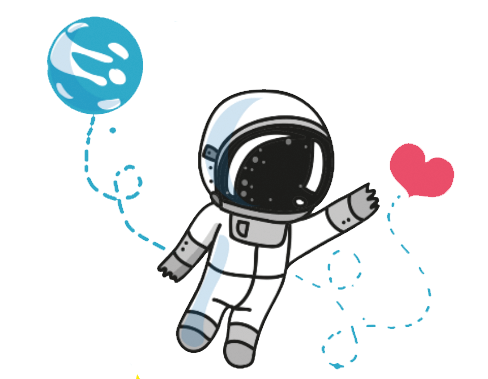
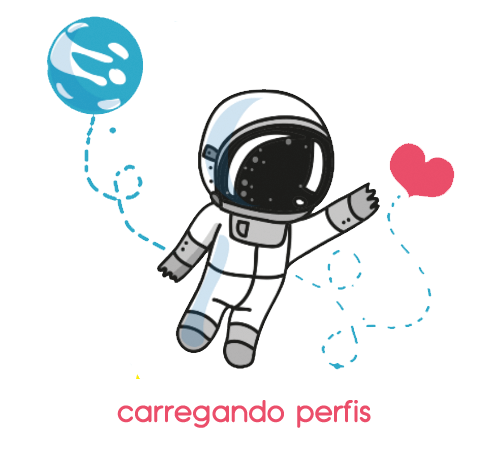
funcionamento básico e design completos

diff --git a/semana9/astromatch/src/components/ChooseScreen/ChooseScreen.js b/semana9/astromatch/src/components/ChooseScreen/ChooseScreen.js
@@ -4,10 +4,12 @@ import Fab from '@material-ui/core/Fab'
 import FavoriteIcon from '@material-ui/icons/Favorite'
 import NotInterestedIcon from '@material-ui/icons/NotInterested';
 import {createMuiTheme, MuiThemeProvider} from '@material-ui/core'
+import logo from '../../images/astromatch.png'
 import {
   Main,
   ProfileDetails,
-  Choice
+  Choice,
+  Logo
 } from './style'
 
 const myTheme = createMuiTheme({
@@ -23,10 +25,42 @@ const myTheme = createMuiTheme({
 
 export default function ChooseScreen() {
   const [profile, setProfile] = useState('')
-
+  const [profileId, setProfileId] = useState('')
+  const [profileChoice, setChoice] = useState(false)
+  
   useEffect(() => {
     getProfileToChoose()
   }, [])
+
+  function userChoiceTrue(id) {
+    setChoice(true)
+    setProfileId(id)
+    choosePerson()
+  }
+  
+  function userChoiceFalse(id) {
+    setChoice(false)
+    setProfileId(id)
+    choosePerson()
+  }
+
+  function choosePerson() {
+    const aluno = 'paulo-machado-mello'
+    const headers = {
+      ContentType: 'application/json'
+    }
+    const body = {
+      id: profileId,
+      choice: profileChoice
+    }
+    axios.post('https://us-central1-missao-newton.cloudfunctions.net/astroMatch/' + aluno + '/choose-person', body, {headers})
+      .then((response) => {
+        getProfileToChoose()
+      })
+      .catch((error) => {
+        window.alert(error)
+      })
+  }
 
   function getProfileToChoose() {
     const aluno = 'paulo-machado-mello'
@@ -34,31 +68,36 @@ export default function ChooseScreen() {
       .then((response) => {
         setProfile(response.data.profile)
       })
+      .catch((error) => {
+        window.alert(error)
+      })
   }
 
   return(
     <MuiThemeProvider theme={myTheme}>
       <Main>
+        {profile ?
         <ProfileDetails>
           <img alt='person' src={profile.photo}/>
           <div>
-          <p>{profile.name}</p> 
-          <p>{profile.age}</p>
+            <p>{profile.name}</p> 
+            <p>{profile.age}</p>
           </div>
           <p>{profile.bio}</p>
-          <Choice>
-            <p>
-              <Fab>
-                <NotInterestedIcon fontSize='large' color='primary' />
-              </Fab>
-            </p>
-            <p>
-              <Fab>
-                <FavoriteIcon fontSize='large' color='secondary'/>
-              </Fab>
-            </p>
-          </Choice>
-        </ProfileDetails>
+        </ProfileDetails> :
+        <Logo alt='logo' src={logo} />}
+        <Choice>
+          <p>
+            <Fab onClick={() => userChoiceFalse(profile.id)}>
+              <NotInterestedIcon fontSize='large' color='primary' />
+            </Fab>
+          </p>
+          <p>
+            <Fab onClick={() => userChoiceTrue(profile.id)}>
+              <FavoriteIcon fontSize='large' color='secondary'/>
+            </Fab>
+          </p>
+        </Choice>
       </Main>
     </MuiThemeProvider>
   )

diff --git a/semana9/astromatch/src/components/ChooseScreen/style.js b/semana9/astromatch/src/components/ChooseScreen/style.js
@@ -1,54 +1,64 @@
 import styled from 'styled-components'
 
 export const Main = styled.main`
-  display: flex;
-  justify-content: center;
-  align-content: center;
-`
-export const ProfileDetails = styled.div`
-  position: absolute;
-  top: 120px;
-  color: white;
-  display: flex;
-  flex-direction: column;
-  justify-content: center;
+  display: grid;
+  grid-template-columns: auto 380px auto;
+  grid-template-rows: 450px auto;
+  `
+  
+  export const ProfileDetails = styled.div`
+  display: grid;
+  grid-template-rows: 150px 150px 150px;
+  grid-row: 1/2;
+  grid-column: 2/3;
+  color: black;
   img {
+    box-shadow: 0px 0px 8px 1px rgba(125,125,125,0.47);
+    grid-column: 1/2;
+    grid-row: 1/3;
     width: 380px;
     height: 450px;
     object-fit: cover;
     border-radius: 5%;
   }
   div {
-    position: absolute;
-    top: 290px;
+    color: white;
+    grid-column: 1/2;
+    grid-row: 3/4;
     display: flex;
-    align-content: center;
     p:first-child {
-      margin-left: 15px;
+      margin-left: 16px;
       margin-right: 8px;
       font-weight: 700;
     }
     >p {
-      font-size: 30px
+      font-size: 30px;
     }
   }
   >p {
+    margin-left: 16px;
+    color: white;
+    grid-column: 1/2;
+    grid-row: 3/4;
+    align-self: end;
     width: 320px;
-    position: absolute;
-    top: 360px;
-    left: 15px;
   }
 `
 export const Choice = styled.div`
-  span {
-    color: red;
-    font-size: 25px;
-    font-weight: 700;
-  }
-  p {
-   margin-left: 100px;
-  }
-  margin-top: 150px;
   display: flex;
+  grid-row: 3/4;
+  grid-column: 2/3;
+  justify-self: center;
+  p {
+    margin-left: 20px;
+    margin-right: 20px;
+  }
+`
+
+export const Logo = styled.img`
+  justify-self: center;
   align-self: center;
+  grid-column: 2/3;
+  grid-row: 1/3;
+  width: 250px;
 `

diff --git a/semana9/astromatch/src/App.js b/semana9/astromatch/src/App.js
@@ -5,7 +5,7 @@ import HomeIcon from '@material-ui/icons/Home';
 import WhatshotIcon from '@material-ui/icons/Whatshot';
 import ChooseScreen from './components/ChooseScreen/ChooseScreen'
 import {createMuiTheme, MuiThemeProvider} from '@material-ui/core'
-import logo from './images/astromatch.png'
+import MatchScreen from './components/MatchScreen/MatchScreen'
 import {
   Main,
   Logo,
@@ -24,24 +24,32 @@ const myTheme = createMuiTheme({
 })
 
 function App() {
+  const [matchesDiv, setMatchesDiv] = useState(true);
+
+  function onClickMatches() {
+    setMatchesDiv(!matchesDiv)
+  }
+
   return (
     <MuiThemeProvider theme={myTheme}>
       <Main>
         <Logo>
-          <img alt='logo' src={logo}/>
           <span>astromatch</span>
         </Logo>
         <NavBar>
-          <Link color='primary' className={'link'}>
-            <HomeIcon className={'icon'} />
+          {matchesDiv ?
+          <Link onClick={onClickMatches} color='primary' className={'link'}>
+            <WhatshotIcon fontSize={'small'} className={'icon'} />
             Matches
-          </Link>
-          <Link color='primary' className={'link'}>
-            <WhatshotIcon className={'icon'} />
-            Matches
-          </Link>
+          </Link> :
+          <Link onClick={onClickMatches} color='primary' className={'link'}>
+            <HomeIcon fontSize={'small'} className={'icon'} />
+            Cardápio
+          </Link>}
         </NavBar>
-        <ChooseScreen />
+        {matchesDiv ?
+        <ChooseScreen /> :
+        <MatchScreen />}
       </Main>
     </MuiThemeProvider>
   );

diff --git a/semana9/astromatch/src/components/MatchScreen/MatchScreen.js b/semana9/astromatch/src/components/MatchScreen/MatchScreen.js
@@ -3,7 +3,7 @@ import axios from 'axios'
 import {createMuiTheme, MuiThemeProvider} from '@material-ui/core'
 import {
   Main,
-  ProfileDetails,
+  Profiles,
   Choice
 } from './style'
 
@@ -17,3 +17,40 @@ const myTheme = createMuiTheme({
     }
   }
 })
+
+
+
+export default function MatchScreen() {
+  
+  const [matches, setMacthes] = useState([])
+  
+  function getMatches() {
+    const aluno = 'paulo-machado-mello'
+    axios.get('https://us-central1-missao-newton.cloudfunctions.net/astroMatch/'+ aluno +'/matches')
+    .then((response) => {
+      setMacthes(response.data.matches)
+    })
+    .catch((error) => {
+      window.alert(error)
+    })
+  }
+  
+  useEffect(() => {
+    getMatches()
+  }, [])
+
+  return(
+    <Main>
+      <Profiles>
+        {matches.map((match) => {
+          return (
+            <div>
+              <img alt='person thumb' src={match.photo} />
+              <p>{match.name}</p>
+            </div>
+          )
+        })}
+      </Profiles>
+    </Main>
+  )
+}

diff --git a/semana9/astromatch/src/components/MatchScreen/style.js b/semana9/astromatch/src/components/MatchScreen/style.js
@@ -1,0 +1,30 @@
+import styled from 'styled-components'
+
+export const Main = styled.main`
+  display: grid;
+  grid-template-columns: auto 380px auto;
+  grid-template-rows: 450px auto;
+  `
+export const Profiles = styled.div`
+  width: 380px;
+  height: 450px;
+  grid-column: 2/3;
+  border-radius: 5%;
+  box-shadow: 0px 0px 8px 1px rgba(125,125,125,0.47);
+  div {
+    cursor: pointer;
+    margin: 16px;
+    display: flex;
+    :hover {
+      background-color: whitesmoke;
+    } 
+    img {
+      margin-right: 16px;
+      width: 50px;
+      height: 50px;
+      border-radius: 50%;
+      object-fit: cover;
+    }
+  }
+`
+

diff --git a/semana9/astromatch/src/style.js b/semana9/astromatch/src/style.js
@@ -10,12 +10,11 @@ export const NavBar = styled(Breadcrumbs)`
   display: flex;
   justify-content: center;
   .link {
+    cursor: pointer;
     align-self: center;
     font-size: 20px;
   }
   .icon {
-    width: 20px;
-    margin-top: 8px;
     margin-right: 4px;
     align-self: center;
   }
@@ -24,7 +23,7 @@ export const Logo = styled.div`
   display: flex;
   justify-content: center;
   align-items: center;
-  margin-top: 10px;
+  margin-top: 4px;
   text-align: center;
   img {
     width: 90px;

diff --git a/semana7/projeto/music-player/src/components/AddPlaylist/AddPlaylist.js b/semana7/projeto/music-player/src/components/AddPlaylist/AddPlaylist.js
@@ -34,7 +34,7 @@ export default class AddPlaylist extends React.Component {
   createPlaylist = () => {
     const headers = {
       Authorization: 'paulo-machado-mello'
-    }
+    } 
     const body = {
       name: this.state.playlistName
     }
